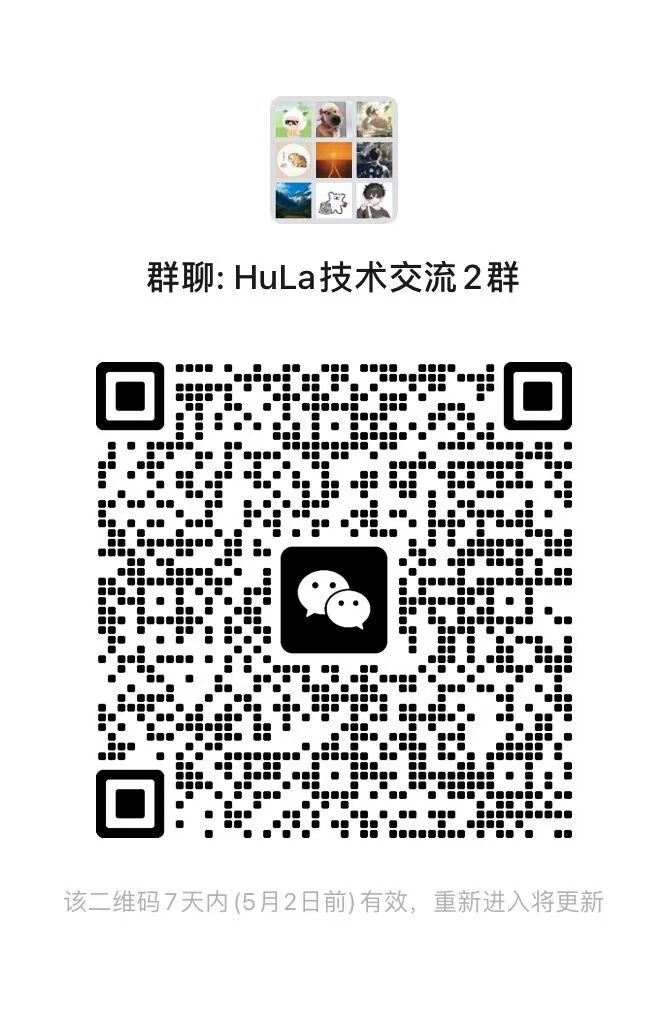
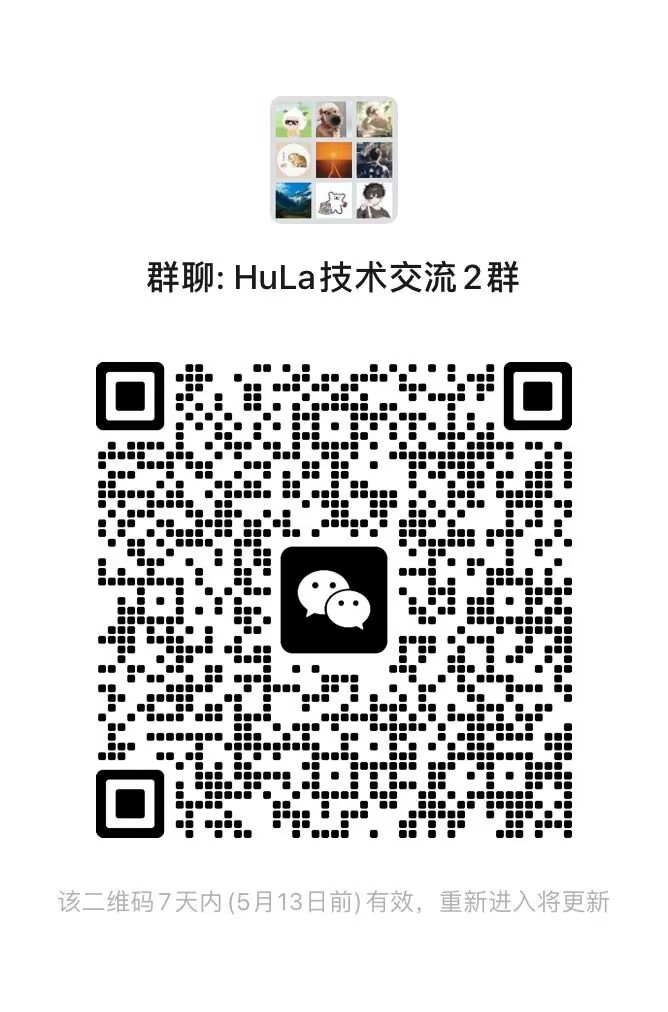
docs(readme): :memo: 修改readme文档，更新微信群二维码

diff --git a/README.en.md b/README.en.md
@@ -103,6 +103,7 @@ HuLa is an instant messaging system developed with Tauri, Vite 6, Vue 3, and Typ
 | | Emoji Function | ✅ Completed |
 | | Context Menu Based on Message Type | ✅ Completed |
 | | Support parsing links as preview cards | ✅ Completed |
+| | Message likes and dissatisfaction status | ✅ Completed |
 | 👥 **Contact & Group Management** | Friend Add/Remove | ✅ Completed |
 | | Friend Search | ✅ Completed |
 | | Group Creation and Management | ✅ Completed |
@@ -110,8 +111,8 @@ HuLa is an instant messaging system developed with Tauri, Vite 6, Vue 3, and Typ
 | | Friend Badges | ✅ Completed |
 | | Block, Blacklist, Do Not Disturb | ✅ Completed |
 | | Message by message merging and forwarding | 🚧 In Progress |
-| | Group Announcement | 🚧 In Progress |
-| | Group chat、individual chat notes, nicknames, etc | 🚧 In Progress |
+| | Group Announcement | ✅ 已完成 |
+| | Group chat、individual chat notes, nicknames, etc | ✅ 已完成 |
 | 🎨 **UI Interface** | Modern Interface Design | ✅ Completed |
 | | Dark/Light Theme Support | ✅ Completed |
 | | Skin Theme Switching | ✅ Completed |

diff --git a/README.md b/README.md
@@ -103,6 +103,7 @@ HuLa 是一款基于 Tauri、Vite 6、Vue 3 和 TypeScript 构建的即时通讯
 | | 表情包功能 | ✅ 已完成 |
 | | 根据消息类型右键菜单 | ✅ 已完成 |
 | | 支持解析链接为预览卡片 | ✅ 已完成 |
+| | 消息点赞和不满状态 | ✅ 已完成 |
 | 👥 **联系人、群聊管理** | 好友添加与删除 | ✅ 已完成 |
 | | 好友搜索 | ✅ 已完成 |
 | | 群组创建与管理 | ✅ 已完成 |
@@ -110,8 +111,8 @@ HuLa 是一款基于 Tauri、Vite 6、Vue 3 和 TypeScript 构建的即时通讯
 | | 好友徽章 | ✅ 已完成 |
 | | 屏蔽、拉黑、免打扰功能 | ✅ 已完成 |
 | | 消息逐条\合并转发 | 🚧 进行中 |
-| | 群公告 | 🚧 进行中 |
-| | 群聊、单聊备注、昵称等 | 🚧 进行中 |
+| | 群公告 | ✅ 已完成 |
+| | 群聊、单聊备注、昵称等 | ✅ 已完成 |
 | 🎨 **UI界面** | 现代化界面设计 | ✅ 已完成 |
 | | 深色/浅色主题支持 | ✅ 已完成 |
 | | 皮肤主题切换 | ✅ 已完成 |
